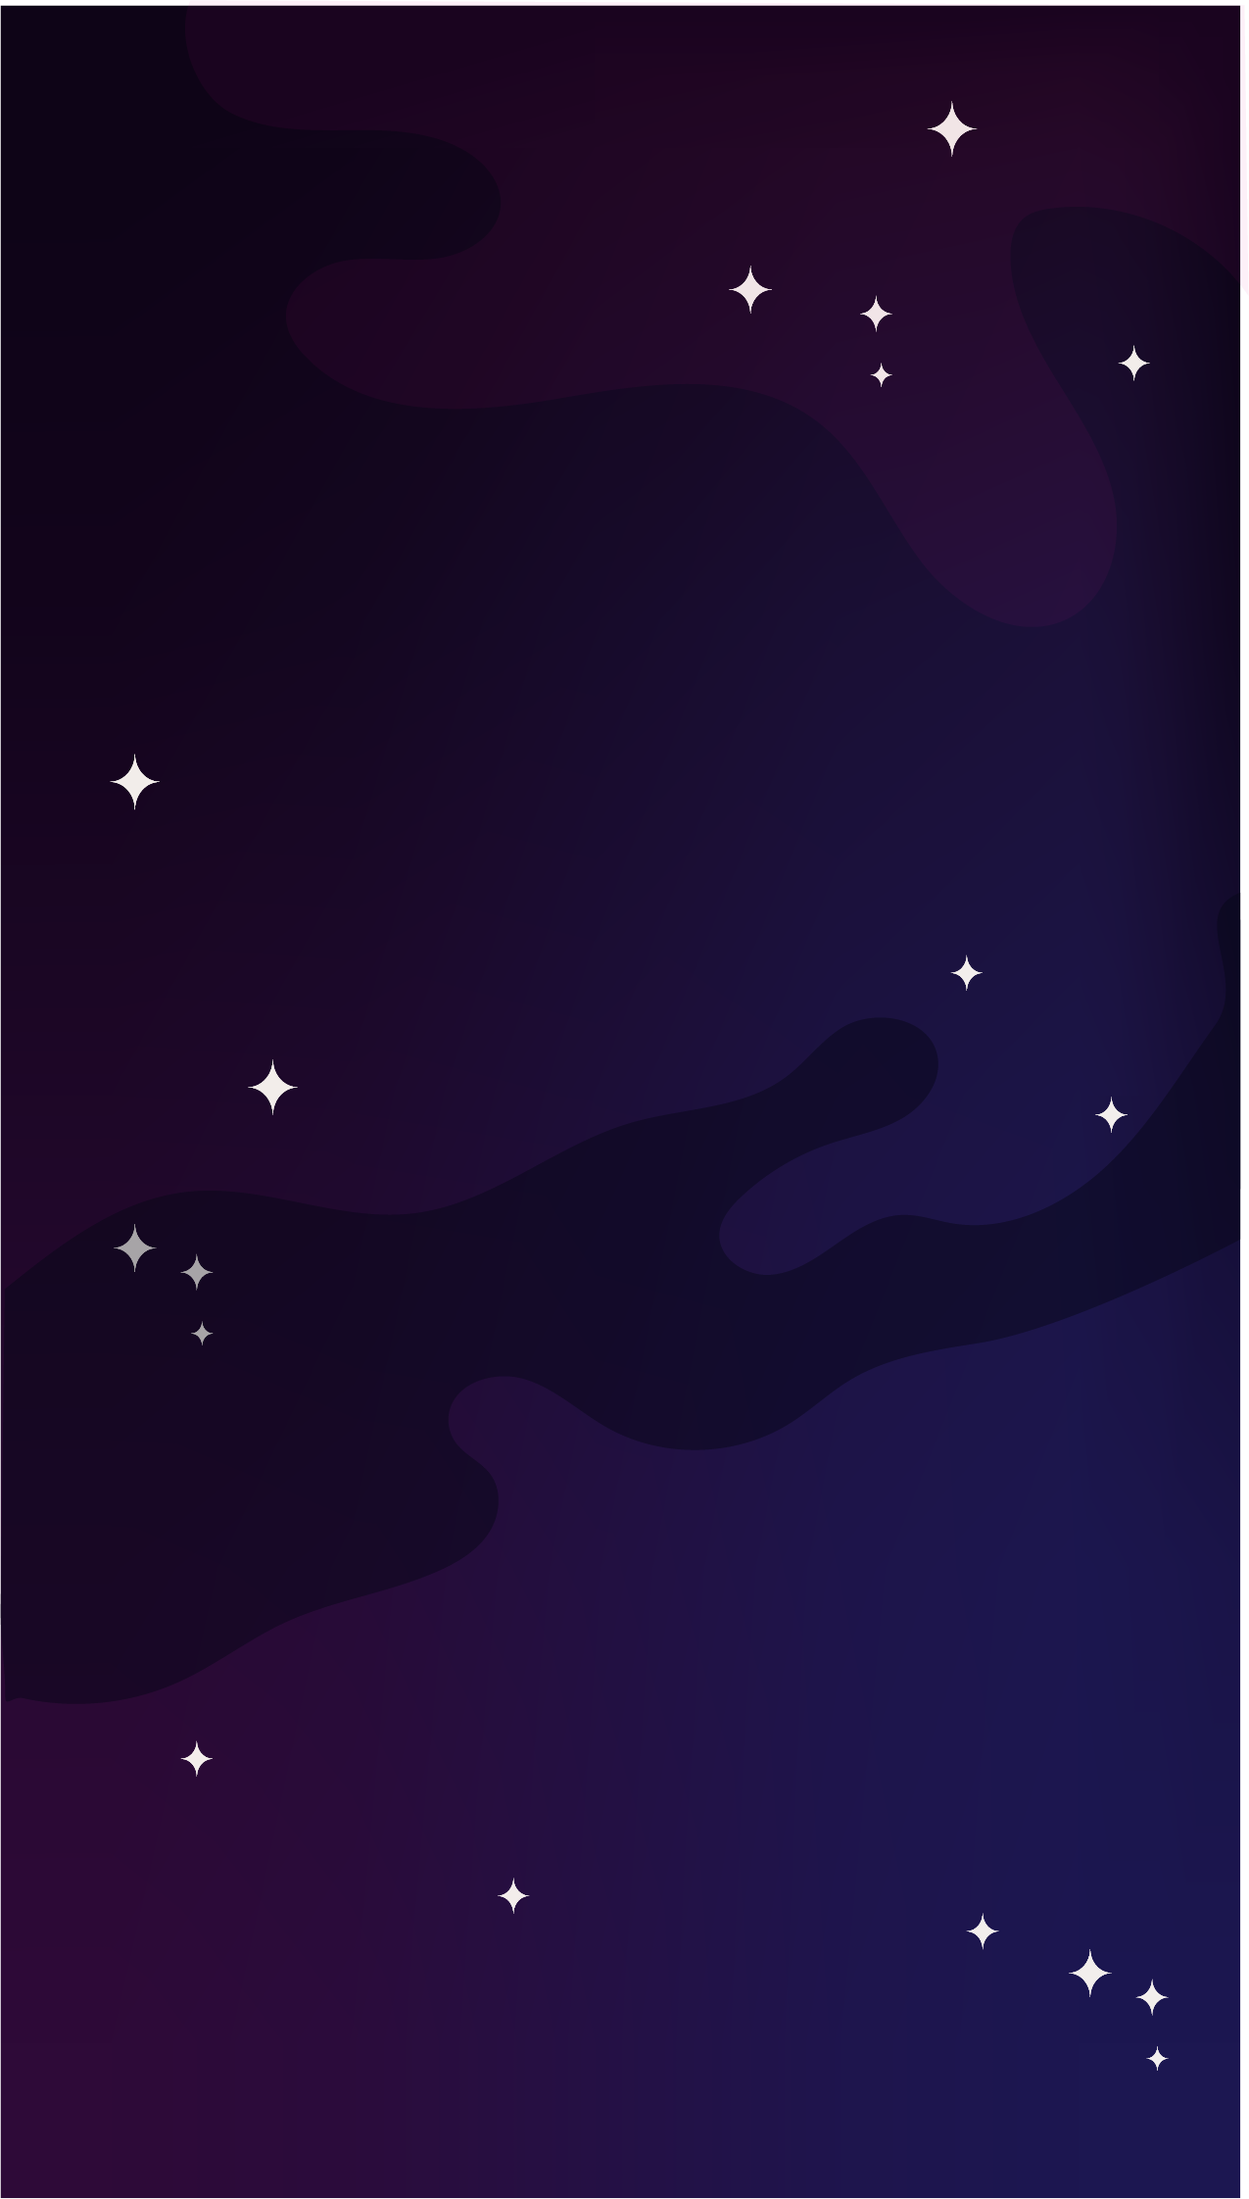
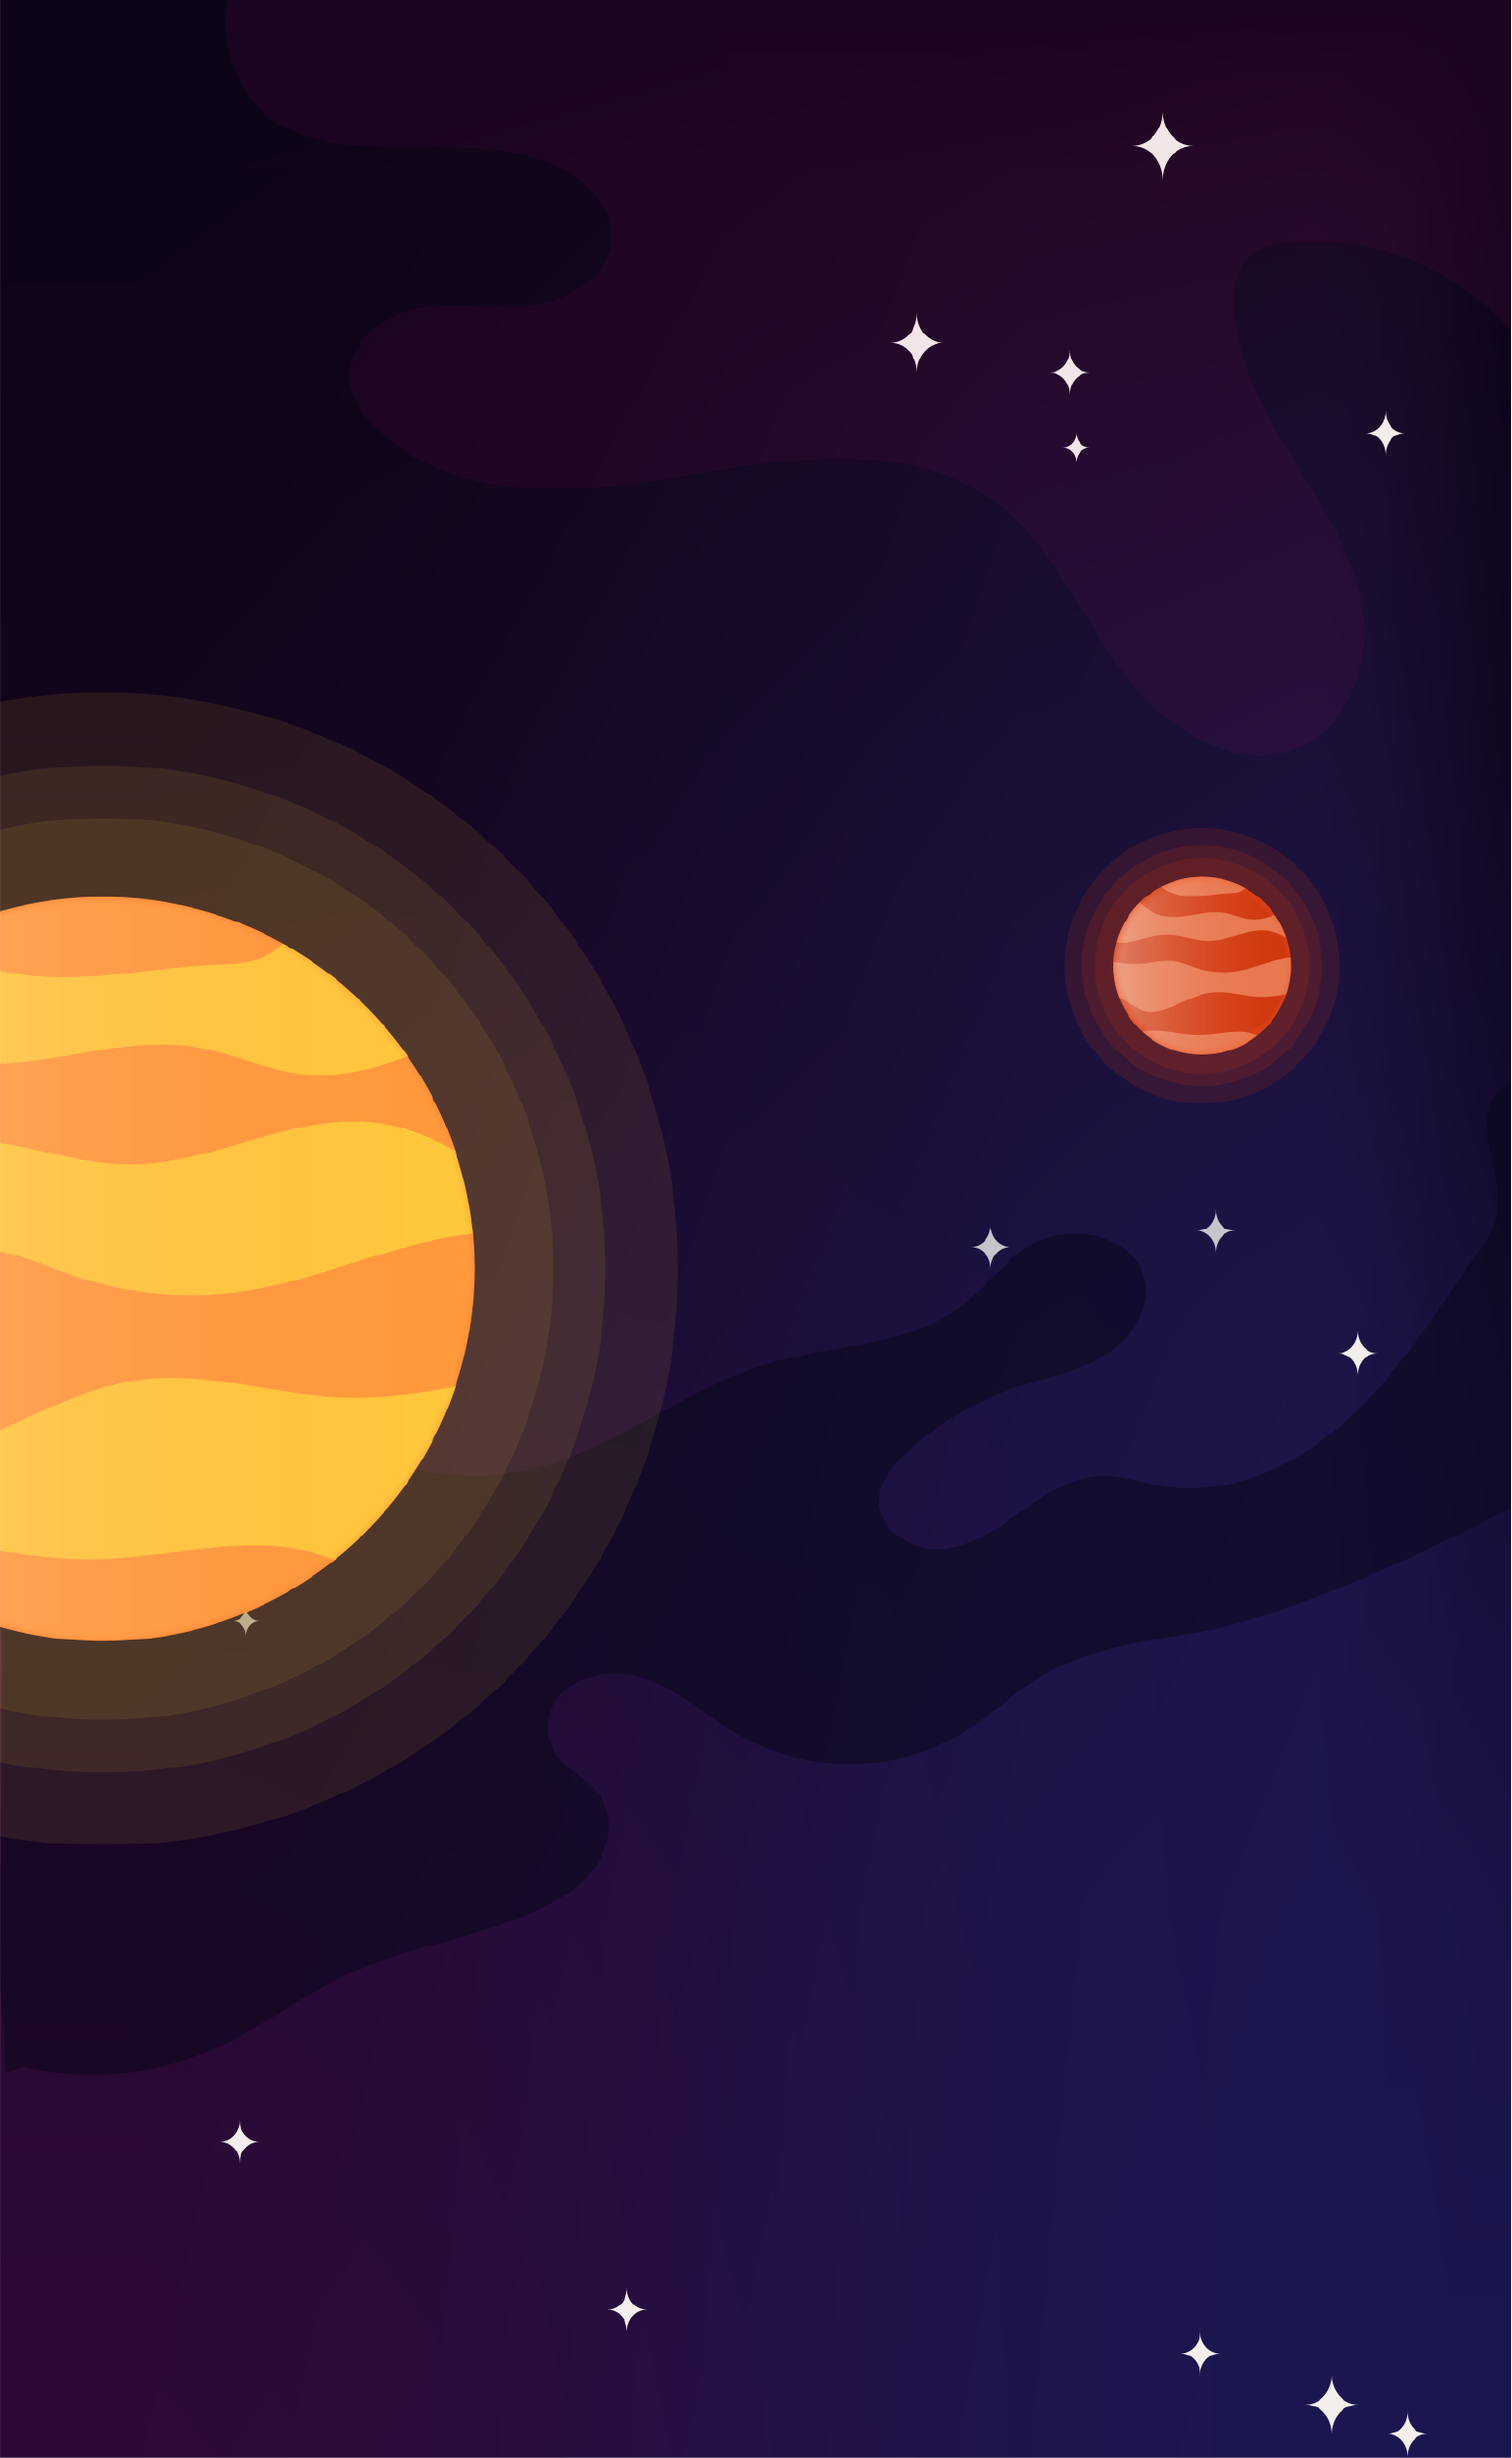
working on responsive design

diff --git a/Components/GameComponents/ProgresBar.js b/Components/GameComponents/ProgresBar.js
@@ -14,11 +14,11 @@ class ProgresBar extends Component {
   }
 
   setProgres () {
-    if (this.props.value === 1) { return <Image style={{marginTop: 10, marginBottom: 10, width: 290, height: 17, resizeMode: 'stretch'}} source={require('../../art/bar5.png')} /> }
-    if (this.props.value === 2) { return <Image style={{marginTop: 10, marginBottom: 10, width: 290, height: 17, resizeMode: 'stretch'}} source={require('../../art/bar4.png')} /> }
-    if (this.props.value === 3) { return <Image style={{marginTop: 10, marginBottom: 10, width: 290, height: 17, resizeMode: 'stretch'}} source={require('../../art/bar3.png')} /> }
-    if (this.props.value === 4) { return <Image style={{marginTop: 10, marginBottom: 10, width: 290, height: 17, resizeMode: 'stretch'}} source={require('../../art/bar2.png')} /> }
-    if (this.props.value === 5) { return <Image style={{marginTop: 10, marginBottom: 10, width: 290, height: 17, resizeMode: 'stretch'}} source={require('../../art/bar.png')} /> }
+    if (this.props.value === 1) { return <Image style={{marginTop: 10, marginBottom: 15, width: 290, height: 17, resizeMode: 'stretch'}} source={require('../../art/bar5.png')} /> }
+    if (this.props.value === 2) { return <Image style={{marginTop: 10, marginBottom: 15, width: 290, height: 17, resizeMode: 'stretch'}} source={require('../../art/bar4.png')} /> }
+    if (this.props.value === 3) { return <Image style={{marginTop: 10, marginBottom: 15, width: 290, height: 17, resizeMode: 'stretch'}} source={require('../../art/bar3.png')} /> }
+    if (this.props.value === 4) { return <Image style={{marginTop: 10, marginBottom: 15, width: 290, height: 17, resizeMode: 'stretch'}} source={require('../../art/bar2.png')} /> }
+    if (this.props.value === 5) { return <Image style={{marginTop: 10, marginBottom: 15, width: 290, height: 17, resizeMode: 'stretch'}} source={require('../../art/bar.png')} /> }
   }
 
   render () {

diff --git a/Components/GameComponents/Cube.js b/Components/GameComponents/Cube.js
@@ -13,27 +13,9 @@ class Cube extends Component {
     this.state = {
       cube: null
     }
-    this.styles = StyleSheet.create({
-      cube: {
-        width: props.size,
-        height: props.size,
-        backgroundColor: props.color
-      },
-      lighted: {
-        width: props.size,
-        height: props.size,
-        backgroundColor: 'orange'
-      },
-      error: {
-        width: props.size,
-        height: props.size,
-        backgroundColor: '#dc143c'
-      }
-    })
-    this.pressElement = this.pressElement.bind(this)
   }
 
-  pressElement (e) {
+  pressElement = (e) => {
     if (this.props.playing === true) {
       const lastNumber = this.props.sequence[this.props.sequence.length - 1]
       if (this.props.id === lastNumber && this.props.game.length === this.props.sequence.length - 1) {
@@ -47,18 +29,18 @@ class Cube extends Component {
     }
   }
 
-  defineStyle () {
+  defineStyle = () => {
     if (this.props.game.includes(this.props.id)) {
-      return <Image source={require('../../art/cube-lighted.png')} style={{margin: 2}} />
+      return <Image source={require('../../art/cube-lighted.png')} style={{margin: 2, resizeMode: 'stretch'}} />
     } else {
-      return <Image source={require('../../art/cubeblue-light.png')} style={{margin: 2}} />
+      return <Image source={require('../../art/cubeblue-light.png')} style={{margin: 2, resizeMode: 'stretch'}} />
     }
   }
 
   render () {
     const style = this.defineStyle()
     return (
-      <TouchableHighlight onPress={this.pressElement} underlayColor='transparent'>
+      <TouchableHighlight style={{backgroundColor: 'transparent'}} onPress={this.pressElement} underlayColor='transparent'>
         {style}
       </TouchableHighlight>
     )

diff --git a/App.js b/App.js
@@ -1,4 +1,6 @@
 import React, { Component } from 'react'
+import FitImage from 'react-native-fit-image'
+
 import {
   AsyncStorage,
   View,
@@ -27,7 +29,7 @@ export default class App extends Component {
     //AsyncStorage.removeItem('level')
     //AsyncStorage.removeItem('username')
     //AsyncStorage.removeItem('achievment')
-    AsyncStorage.getItem('level').then((value) => { console.log('-------->' + value) })
+    //AsyncStorage.getItem('level').then((value) => { console.log('-------->' + value) })
     if (this.state.screen === 'noregistered' || this.state.screen === 'menu') {
       AsyncStorage.getItem('username').then((value) => {
         if (value === null) {
@@ -76,7 +78,7 @@ export default class App extends Component {
   render () {
     return (
       <View style={{flex: 1, backgroundColor: '#0e0417'}}>
-        <Image syle={{flex: 1, resizeMode: 'stretch', top: 0, left: 0}} source={require('./art/back-prueba.png')} />
+        <FitImage originalWidth={1242} originalHeight={2678} source={require('./art/back-prueba.png')} />
         <View style={{position: 'absolute', width: '100%', height: '100%', justifyContent: 'center', alignItems: 'center', top: 0, left: 0, backgroundColor: 'transparent'}}>
           {this.screen()}
         </View>

diff --git a/Screens/Level1/L2.js b/Screens/Level1/L2.js
@@ -6,12 +6,12 @@ import {
   View
 } from 'react-native'
 
-class L2 extends Component { 
+class L2 extends Component {
   render () {
     return (
-      <View style={{justifyContent: 'center', alignItems: 'center', backgroundColor: 'transparent', top: 40}}>
+      <View style={{position: 'absolute', justifyContent: 'center', alignItems: 'center', backgroundColor: 'transparent', top: '35%'}}>
         <ErrorModal modalVisible={this.props.modalVisible} errorWindow={this.props.errorWindow} level={this.props.level} />
-        <View style={{flexDirection: 'row', marginTop: 30}}>
+        <View style={{flexDirection: 'row', backgroundColor: 'transparent'}}>
           {this.props.cubeGenerator(1, 'powderblue')}
           {this.props.cubeGenerator(2, 'skyblue')}
           {this.props.cubeGenerator(3, 'steelblue')}

diff --git a/Screens/Level1/Level1.js b/Screens/Level1/Level1.js
@@ -38,9 +38,9 @@ class Level1 extends Component {
   getLevelStructure = () => {
     if (this.state.lvl !== 'end') {
       return (
-        <View style={{flex: 1, alignItems: 'center', backgroundColor: 'transparent', width: 500}}>
+        <View style={{flex: 1, alignItems: 'center', backgroundColor: 'transparent', width: 1000 }}>
           <View style={{backgroundColor: '#210b38', justifyContent: 'flex-start', alignItems: 'center', width: '100%'}}>
-            <Text style={{color: 'white', fontSize: 17, fontWeight: '500', top: 40, marginBottom: 40}}>
+            <Text style={{color: 'white', fontSize: 17, fontWeight: '500', top: '38%', marginBottom: '3%'}}>
               Level {this.state.lvl}
             </Text>
             <ProgresBar value={this.state.lvl} />

diff --git a/Components/GameComponents/RegisterPage.js b/Components/GameComponents/RegisterPage.js
@@ -41,10 +41,10 @@ class RegisterPage extends Component {
           Hello, how do you want me to call you?
         </Text>
         <TextInput
-          style={{marginTop: 20, height: 30, width: 200, backgroundColor: 'white', borderWidth: 1, top: '20%'}}
+          style={{marginTop: 20, height: 30, width: 200, backgroundColor: 'white', borderWidth: 0, top: '20%'}}
           onChangeText={this.setUsername}
         />
-        <TouchableHighlight onPress={this.registerDone} style={{width: 100, alignItems: 'center', borderRadius: 20, top: 150}}>
+        <TouchableHighlight onPress={this.registerDone} style={{width: 100, alignItems: 'center', borderRadius: 20, top: '25%'}}>
           <Text style={{color: 'white', fontSize: 20}}>
             START
           </Text>

diff --git a/Screens/Level1/L3.js b/Screens/Level1/L3.js
@@ -38,7 +38,7 @@ class L3 extends Component {
 
   render () {
     return (
-      <View style={{position: 'absolute', width: '100%', height: '100%', justifyContent: 'center', alignItems: 'center', top: 40}} >
+      <View style={{position: 'absolute', width: '100%', height: '100%', justifyContent: 'center', alignItems: 'center', top: '12%'}} >
         <ErrorModal modalVisible={this.props.modalVisible} errorWindow={this.props.errorWindow} level={this.props.level} />
         <Achievment modalVisible={this.state.modalVisible} hideModal={this.hideModal} />
         <View style={{

diff --git a/Screens/Level1/L1.js b/Screens/Level1/L1.js
@@ -13,7 +13,7 @@ class L1 extends Component {
   }
   render () {
     return (
-      <View style={{backgroundColor: 'transparent', marginTop: 40}}>
+      <View style={{position: 'absolute', backgroundColor: 'transparent', justifyContent: 'center', alignItems: 'center', top: '30%'}}>
         <ErrorModal modalVisible={this.props.modalVisible} errorWindow={this.props.errorWindow} level={this.state.level} />
         {this.props.cubeGenerator(1, 'powderblue')}
         {this.props.cubeGenerator(2, 'skyblue')}
